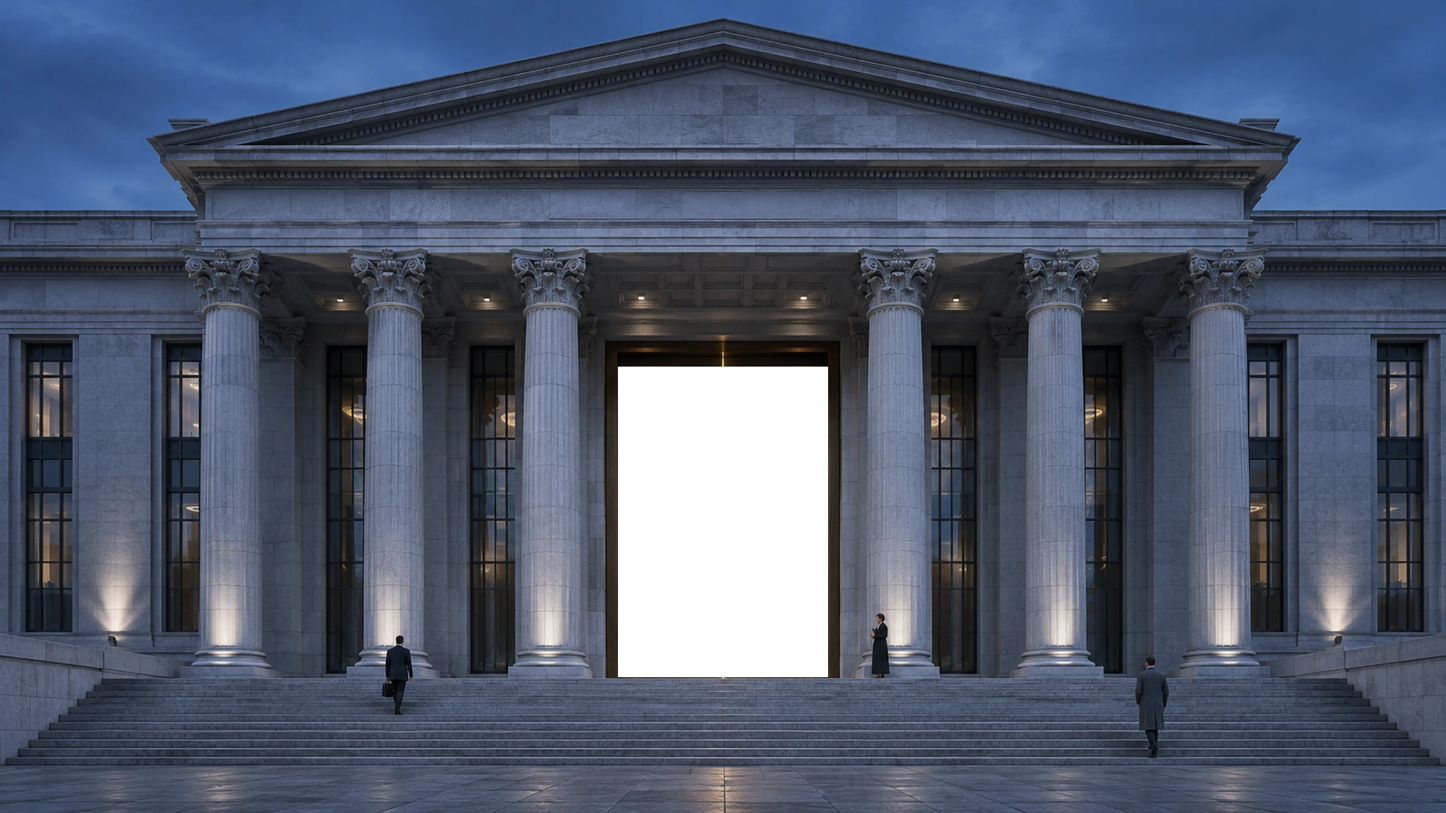
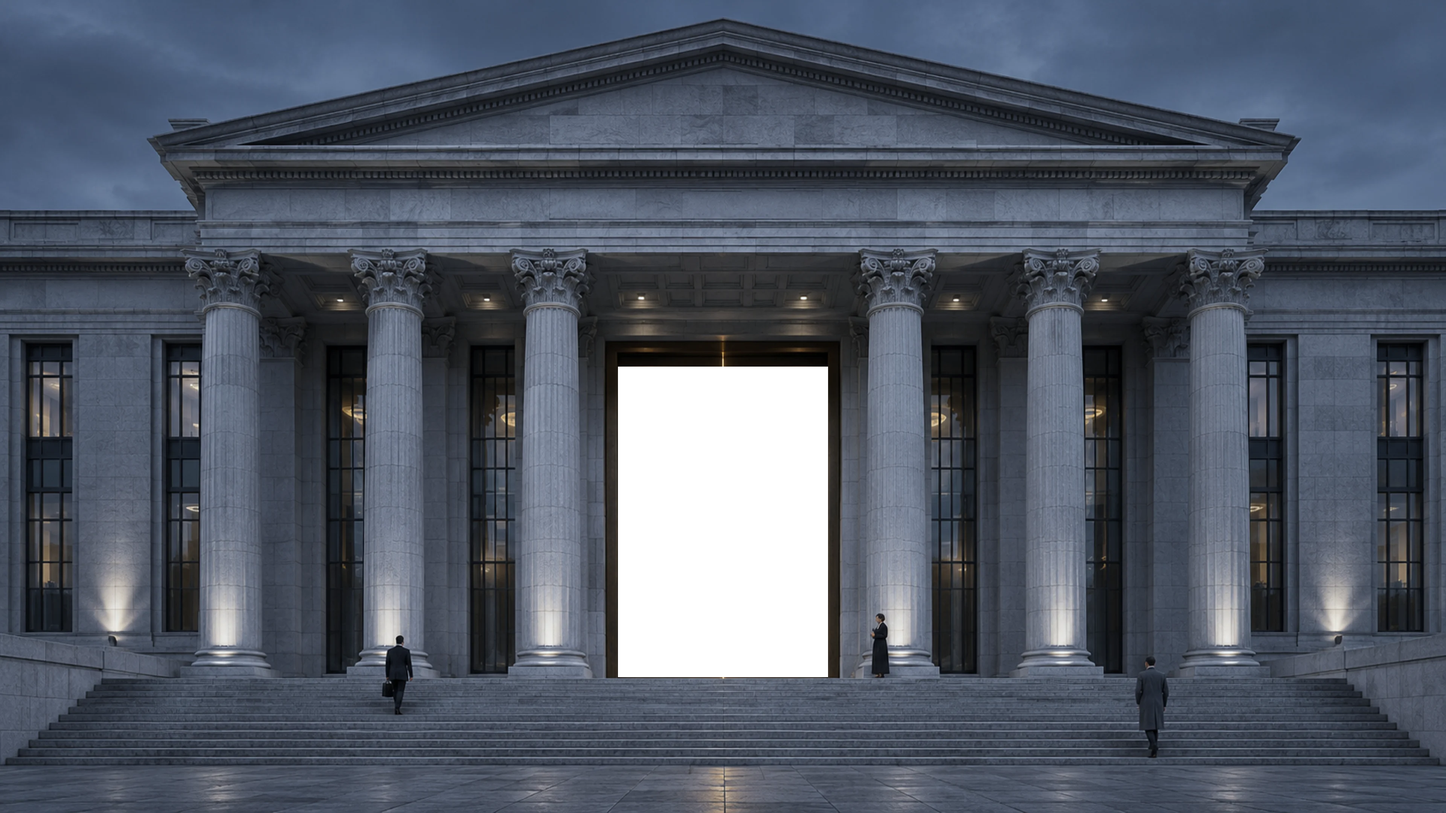
開門場景：配色對齊 tst、卡一拍改成不跳動
- 外觀天空降成石板藍、門與燈光收成金色；大廳改冷白，白光與按鈕用 app 色
- 區塊後段留 60vh 靜止畫面，卡住時多滑出的距離看不出來，不再前後跳
- 穿門放大幅度減半，換場改在全白時進行，避免來回滑時閃

Changed region(s): [[0.0, 0.0, 1.0, 0.2792]]

diff --git a/index.html b/index.html
@@ -7,25 +7,25 @@
 <title>CRE8</title>
 <script src="./support.js"></script>
 <style>
-.door{position:relative;height:400vh;background:#0B0F14}
+.door{position:relative;height:460vh;background:#0B0F14}
 .door-stick{position:sticky;top:0;height:100vh;height:100lvh;overflow:hidden;background:#0B0F14}
-.door-hall{position:absolute;inset:0;background:#EDEBE6 url(assets/bank-hall.webp) 50% 50%/cover no-repeat;will-change:transform}
-.door-hall:after{content:"";position:absolute;inset:0;background:linear-gradient(90deg,rgba(250,248,244,.72) 0%,rgba(250,248,244,.35) 45%,rgba(250,248,244,0) 75%),linear-gradient(0deg,rgba(250,248,244,.6) 0%,rgba(250,248,244,0) 45%)}
+.door-hall{position:absolute;inset:0;background:#EDF0F3 url(assets/bank-hall.webp) 50% 50%/cover no-repeat;will-change:transform}
+.door-hall:after{content:"";position:absolute;inset:0;background:linear-gradient(90deg,rgba(243,245,247,.72) 0%,rgba(243,245,247,.35) 45%,rgba(243,245,247,0) 75%),linear-gradient(0deg,rgba(243,245,247,.6) 0%,rgba(243,245,247,0) 45%)}
 .door-stage{position:absolute;perspective:2400px;perspective-origin:50% 64%;will-change:transform}
 .door-stage>*{position:absolute}
 .door-ext{inset:0;width:100%;height:100%;display:block}
 .door-op{left:42.734%;top:45.093%;width:14.531%;height:38.194%}
-.door-glow{background:radial-gradient(60% 55% at 50% 55%,rgba(255,250,240,.95),rgba(255,236,205,.55) 70%,rgba(255,226,180,.25))}
+.door-glow{background:radial-gradient(60% 55% at 50% 55%,rgba(255,253,248,.95),rgba(246,236,214,.55) 70%,rgba(227,181,91,.22))}
 .door-leaf{top:45.093%;width:7.266%;height:38.194%;backface-visibility:hidden;will-change:transform}
 .door-leaf img{width:100%;height:100%;display:block}
 #door-l{left:42.734%;transform-origin:0 50%}
 #door-r{left:50%;transform-origin:100% 50%}
-.door-white{position:absolute;inset:0;background:#FFFDF8;opacity:0;pointer-events:none}
+.door-white{position:absolute;inset:0;background:#F3F5F7;opacity:0;pointer-events:none}
 .door-copy{position:absolute;left:0;right:0;bottom:0;padding:0 max(clamp(20px,4vw,64px),calc((100% - 1240px) / 2)) clamp(28px,4vw,48px);opacity:0;padding-bottom:calc(clamp(28px,4vw,48px) + 100lvh - 100svh);color:#0B0F14;font-family:'Geist',-apple-system,system-ui,sans-serif}
 .door-copy h1{margin:0;font-weight:500;font-size:clamp(42px,8.6vw,136px);line-height:.98;letter-spacing:-.045em}
 .door-copy p{font:400 clamp(20px,1.7vw,24px)/1.4 'Geist',sans-serif;margin:24px 0 0;color:#3C4651;text-wrap:pretty}
-.door-copy a{margin-top:40px;height:52px;padding:0 24px;border-radius:999px;display:inline-flex;align-items:center;gap:10px;background:#C9A15A;color:#0B0F14;text-decoration:none;font:500 16px 'Geist',sans-serif}
-.door-copy a:hover{background:#D4AE68}
+.door-copy a{margin-top:40px;height:52px;padding:0 24px;border-radius:999px;display:inline-flex;align-items:center;gap:10px;background:#E3B55B;color:#0B0F14;text-decoration:none;font:500 16px 'Geist',sans-serif}
+.door-copy a:hover{background:#EEC46E}
 </style>
 <script src="assets/door.js" defer></script>
 </head>

diff --git a/assets/door.js b/assets/door.js
@@ -21,19 +21,19 @@
   function draw() {
     ticking = false;
     const r = el.sec.getBoundingClientRect();
-    const p = clamp(-r.top / (r.height - vh));
+    const p = clamp(-r.top / span());
     const s1 = (vh * .78) / (DOOR.h * H);           // 大門約佔畫面八成高
     const a = ease(seg(p, 0, .32));                   // 走到門前
     const o = ease(seg(p, .26, .56));                 // 開門
     const t = easeIn(seg(p, .5, .76));                // 穿過門
-    const scale = (1 + (s1 - 1) * a) * (1 + 11 * t);
+    const scale = (1 + (s1 - 1) * a) * (1 + 6 * t);
     const dy = (vh / 2 - ((vh - H) / 2 + DOOR.cy * H)) * Math.max(a, t ? 1 : 0);
     el.stage.style.transform = `translate3d(0,${dy}px,0) scale(${scale})`;
-    el.stage.style.opacity = p > .8 ? 0 : 1;
+    el.stage.style.opacity = p > .78 ? 0 : 1;        // 在全白時才換場，不會閃
     el.l.style.transform = `rotateY(${-82 * o}deg)`;  // 往內推開
     el.r.style.transform = `rotateY(${82 * o}deg)`;
     el.glow.style.opacity = clamp(.35 + o * .65);
-    const w1 = seg(p, .6, .76), w2 = seg(p, .78, .9);
+    const w1 = seg(p, .6, .76), w2 = seg(p, .8, .92);
     el.white.style.opacity = w1 * (1 - w2);
     el.hall.style.transform = `scale(${1.18 - .18 * ease(seg(p, .6, 1))})`;
     const c = ease(seg(p, .86, .98));
@@ -57,7 +57,9 @@
     fromAbove = scrollY < end() - 2;
   }
   let fromAbove = true, lastWheel = 0, freezing = false;
-  const end = () => el.sec.offsetTop + el.sec.offsetHeight - vh;
+  // 區塊 460vh：前 300vh 是動畫，後 60vh 畫面不動，卡住時多滑出去的那一點看不出來。
+  const span = () => (el.sec.offsetHeight - vh) * 300 / 360;
+  const end = () => el.sec.offsetTop + span();
   function gate() {
     const e = end();
     if (!fromAbove || scrollY <= e) return;
